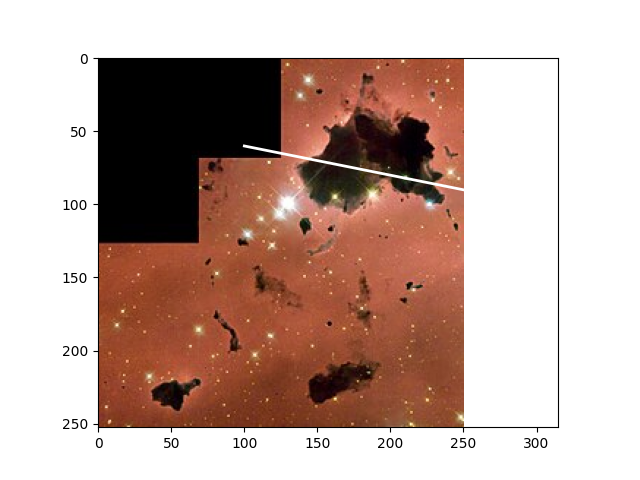
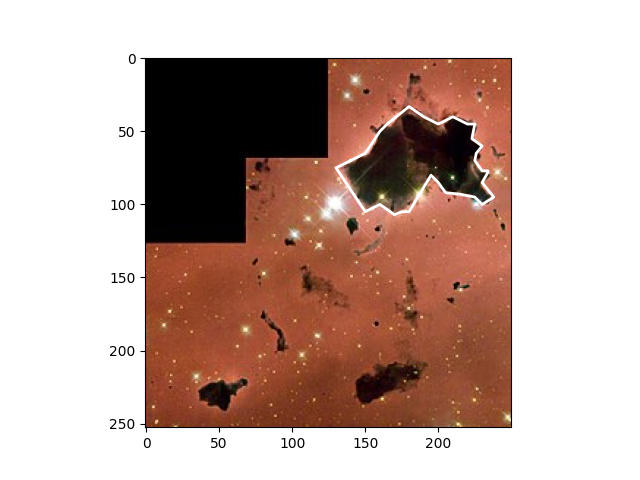
gbvtyuhjbc

Changed region(s): [[0.0938, 0.0938, 0.8125, 0.9375], [0.3125, 0.9062, 0.4062, 0.9375], [0.8125, 0.9062, 0.875, 0.9375]]

diff --git a/nn.py b/nn.py
@@ -1,0 +1,34 @@
+import matplotlib.pyplot as plt
+import numpy as np
+from scipy import interpolate
+import shapely.geometry as geom
+
+img = plt.imread('ss.jpg')
+fig, ax = plt.subplots()
+ax.imshow(img)
+
+x = [140,150,160,165,180,190,200,210,220,225,223,230,226,225,230,234,234,230,238,230,225,215,205,200,195,180,175,170,160,150,130,140]
+y = [70,65,50,45,33,40,45,40,45,45,55,60,65,70,77,77,78,85,95,100,95,93,92,85,80,105,105,107,100,105,75,70]
+
+spline_coords, figure_spline_part = interpolate.splprep([x,y], s = 0)
+spline_curve = interpolate.splev(figure_spline_part, spline_coords)
+plt.plot(spline_curve[0], spline_curve[1], color  = 'g', lw = 4)
+
+curve_coords = []
+for i in range (len(spline_curve[0])):
+    curve_coords.append([spline_curve[0][i],spline_curve[1][i] ])
+
+polygon = geom.Polygon(curve_coords)
+points_number_per_side = 100
+x_pictures_limits = [70,810]
+y_pictures_limits = [1000,0]
+
+for x_point_coord in np.linspace (*x_pictures_limits,points_number_per_side):
+    for y_point_coord in np.linspace(*y_pictures_limits, points_number_per_side):
+        p = geom.Point (x_point_coord, y_point_coord)
+        if p.within(polygon):
+            plt.plot (x_point_coord, y_point_coord, 'ro', ms = 0.5)
+
+plt.plot(x,y,lw = 2, color = 'w')
+plt.ylim()
+plt.savefig('KILL12.png')
